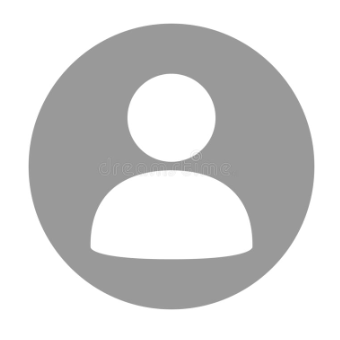
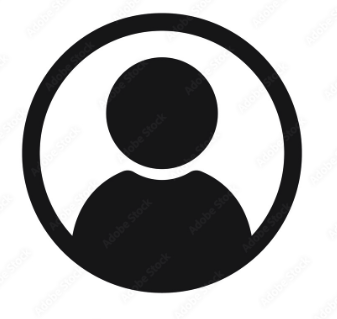
update account, and add picture change animation to about

diff --git a/about.html b/about.html
@@ -6,10 +6,10 @@
 	<title>Crazy Burger - About</title>
     <link rel="stylesheet" type="text/css" href="style.css">
 </head>
-<body class="about">
+<body class="about" onload="Image_Change()">
 
     <!-- nav bar -->
-    <nav class="navBar">
+     <nav class="navBar">
         <a href="index.html"><img class="logo" src="images/logo.png" alt="logo"></a>
         <ul>
             <li><a href="index.html">Menu</a></li>
@@ -20,13 +20,13 @@
             <li><a href="login.html">Login</a></li>
         </ul>
         <div class="cart">
-			<a href="checkout.html"><img src="images/cart.png" alt="cart" height="50"></a>
-			<div id="cartAmount" class="cartAmount">0</div>
-		</div>
+            <a href="checkout.html"><img src="images/cart.png" alt="cart" height="50"></a>
+            <div id="cartAmount" class="cartAmount">0</div>
+        </div>
     </nav>
-
-    <h1 class="topBanner">About US</h1><hr>
-    
+    <!-- top banner -->
+    <h1 class="topBanner">About US</h1>
+    <hr>
     <div class="about_background"> 
  <br>
  <br>
@@ -69,18 +69,20 @@
              
                 <table class="table_value">
                     <tr>
-                        <td class="about_img"><img src="images/b4.png" class="about_img"></td>
+                        <td class="about_img"><img src="images/P4.png" class="about_img" id="myImage" onclick="StopChange()"></td>
                         <th>
                 <div class="about_value">            
                 <h2 align="center" class="about_h2">Our Values</h2>
                 <table align="center" cellpadding="30%" class="value">
                     <tr valign="top" align="center">
-                        <th width="500"><h3>Ingenuity</h3>
+                        <th width="500"><h3 class="value_title">Ingenuity</h3>
+                            <br>
                             <p class="about"><font size="4">
                                 We strive for innovation and evolution. Our food will never stop growing in its potential and awesomeness. We devote ourselves to exploring the unknown in the world of burgers and powers.</font>
                             </p>
                         </th>
-                        <th width="500"><h3>Impact</h3>
+                        <th width="500"><h3 class="value_title">Impact</h3>
+                            <br>
                             <p class="about"><font size="4">
                                 We strive to create unforgettable experiences. Our food will never stop changing our customers' lives. We devote ourselves to forging the wildest and wackiest burgers with tremendous consequences.</font>
                             </p>
@@ -90,13 +92,17 @@
                 </table>  
                 </th>
                 </tr>
-                <table>
-    <!-- footer -->
-    <div class="footer">
-        <h2>© 2022 Crazy Burger</h2>
-        <a href="#"><button class="redButton">Go to Top</button></a>
-    </div>
+                <table>      
+               
+ 
+           
+    <footer>
+        <div class="footer">
+            <h2>© 2022 Crazy Burger</h2>
+            <a href="#"><button class="redButton">Go to Top</button></a>
+        </div>
+    </footer>    
+    <script src="main.js"></script>         
 
 </body>
-<script src="main.js"></script>
 </html>

diff --git a/main.js b/main.js
@@ -189,3 +189,21 @@ let calcBasket = () => {
   let cartIcon = document.getElementById("cartAmount");
   cartIcon.innerHTML = (basket.map((x) => x.item).reduce((x,y) => x + y, 0));
 }
+
+function Image_Change(){
+  const images = [];
+  images.push('images/P1.png','images/P2.png','images/P3.png');
+  setInterval(()=>{
+    document.getElementById("myImage").src=images.pop();
+    if(images.length == 0){
+      images.push('images/P1.png','images/P2.png','images/P3.png','images/P4.png');
+    }
+
+  },3000);
+
+}
+
+
+
+
+       

diff --git a/style.css b/style.css
@@ -387,6 +387,11 @@ ul {
     border: 10px solid white;
 
 }
+.value_title{
+	border: 2px solid transparent;
+	width: 100px;
+	border-image: linear-gradient(red, black) 5;
+}
 .table_value{
   border-spacing: 50px;
   width: 100%;
@@ -395,7 +400,7 @@ ul {
 
 .account_main{
 	 height: 1000px;
-	 width: 600px;
+	 width: 700px;
 	 position: relative;
 	 margin-right:auto ;
 	 margin-left: auto;
